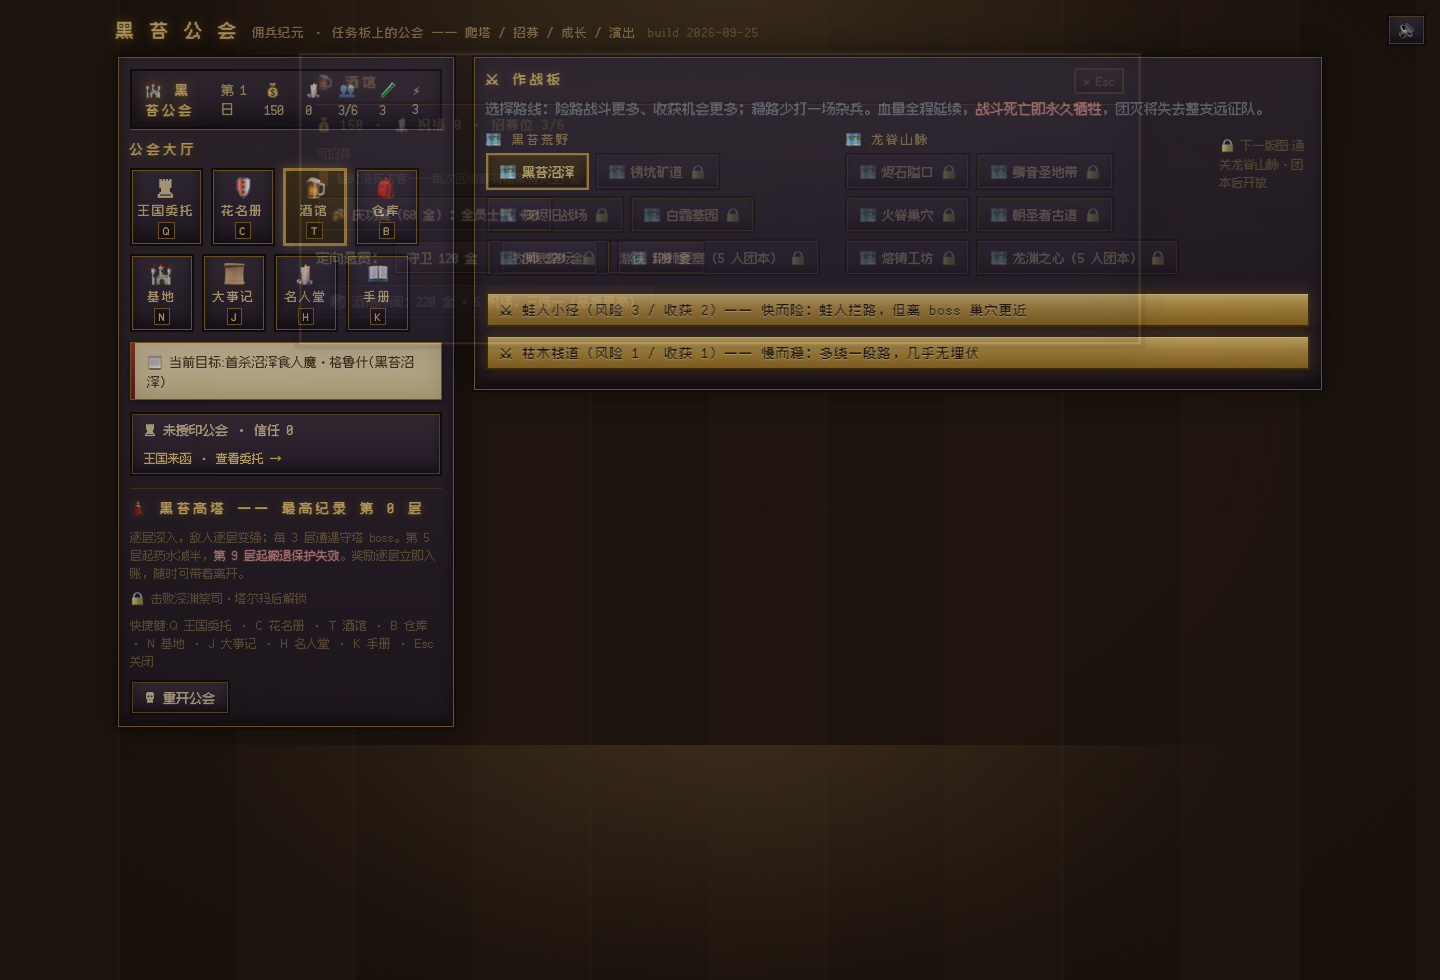
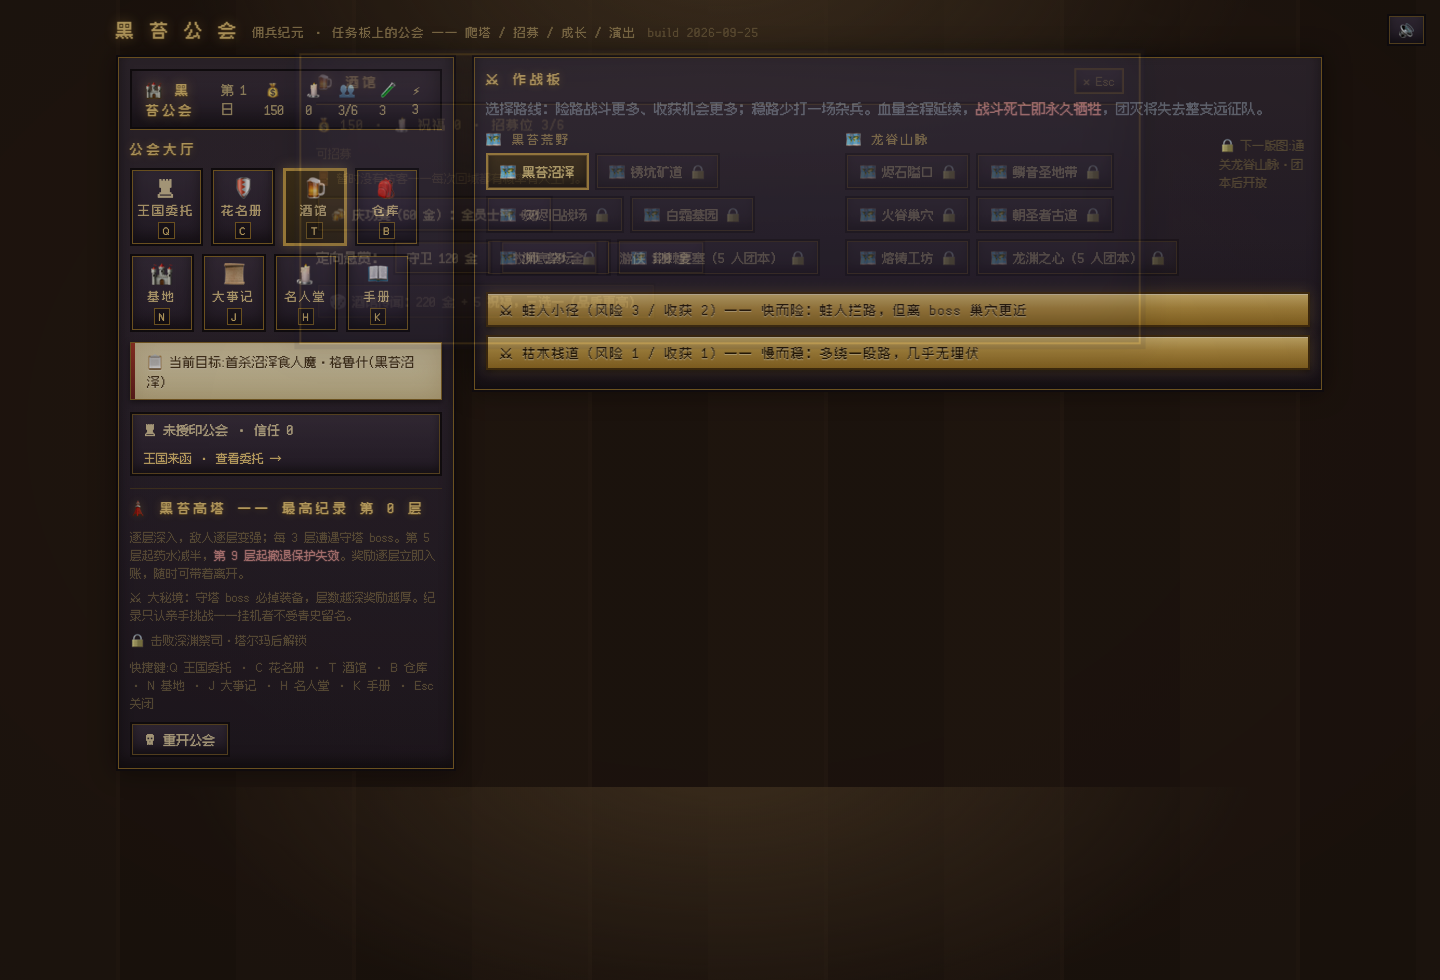
docs: BACKLOG K02/K03 标记已实现(9c60ce4);F 清单+K 大项全部交付

Changed region(s): [[0.0938, 0.5816, 0.3125, 0.7653], [0.4375, 0.7347, 0.5312, 0.7959]]

diff --git a/docs/development/BACKLOG.md b/docs/development/BACKLOG.md
@@ -31,8 +31,8 @@
 | F11 | 第二版图杂兵掉落回退T1 | sim/loot、data/items | 按已确认装备纪元抽取；不因遗漏映射进入默认低阶池 | **已修复（本地，未推送）**：DUNGEON_TIER 补登记版图二 6 图全 T2;U09 T3 纪元池独立任务另排 |
 | F12 | 招募冷却计量不一致 | App结算与酒馆 | 明确按战斗还是远征计；扣减和文案一致，缺员救济保留 | **已修复（本地，未推送）**：统一按「场战斗」计,文案同步;缺员免冷却救济保留 |
 | F13 | 重开公会确认与完整重置 | App restartGuild、标题页 | 内置浏览器兼容确认；一次确认后重置所有公会资产/建筑/日期/事件和委托，取消时不改存档；本轮仅接入委托清空 | **已修复（本地，未推送）**：window.confirm 全部替换为游戏内确认弹窗(confirmAsk,两处入口),取消零副作用 |
-| K02 | 纪念品质死亡光环（U11） | sim/chronicle、memorial、App 结算 | 光环强度由亡者生平成就（首杀/塔层数/委托/编年史事迹）生成纪念品质决定，与人头数解耦；总光环设上限（数值实现时定）；装备回收/祝福/免费访客维持；编年史可回顾每位亡者事迹 | 待处理（依赖 P02 已对齐） |
-| K03 | 高塔大秘境化（U10） | sim/tower、App 塔流 | 装等/练度门槛可见；层数奖励曲线（含装备/经验掉落，奖励厚于普通本）；层间血量连续性（吸收 F04）；塔纪录只认手动挑战；挂机不进塔 | 待处理（依赖 P06 已对齐；F04 验收并入此项） |
+| K02 | 纪念品质死亡光环（U11） | sim/memorial、App 结算、纪念堂 UI | 光环强度由亡者生平成就（首杀/塔层数/委托/编年史事迹）生成纪念品质决定，与人头数解耦；总光环设上限（数值实现时定）；装备回收/祝福/免费访客维持；编年史可回顾每位亡者事迹 | **已实现（9c60ce4）**：凡逝1%/青史2%/传奇3%,封顶 6%;老档兼容;纪念堂品质+事迹展示;smoke ㊷ |
+| K03 | 高塔大秘境化（U10） | sim/tower、App 塔流 | 装等/练度门槛可见；层数奖励曲线（含装备/经验掉落，奖励厚于普通本）；层间血量连续性（吸收 F04）；塔纪录只认手动挑战；挂机不进塔 | **已实现（9c60ce4）**：每层经验曲线+装备掉落(boss 必掉/普通 10%,纪元分档);纪录只认手动;F04 血量连续已并入;入口说明更新 |
 
 ## 玩法设计待决项
 
